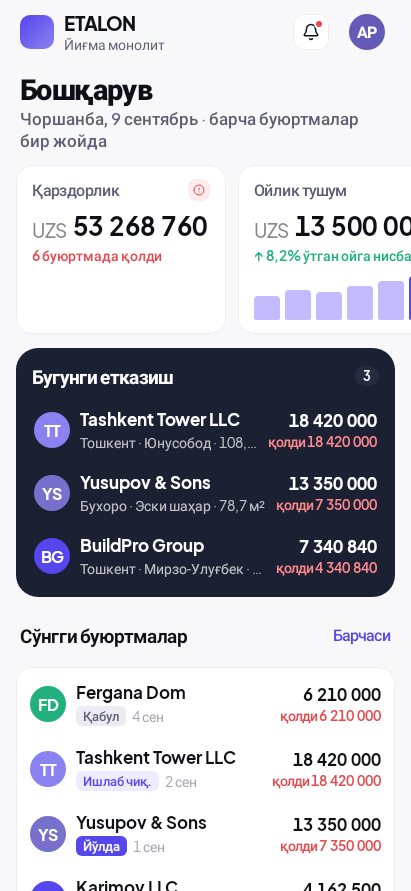
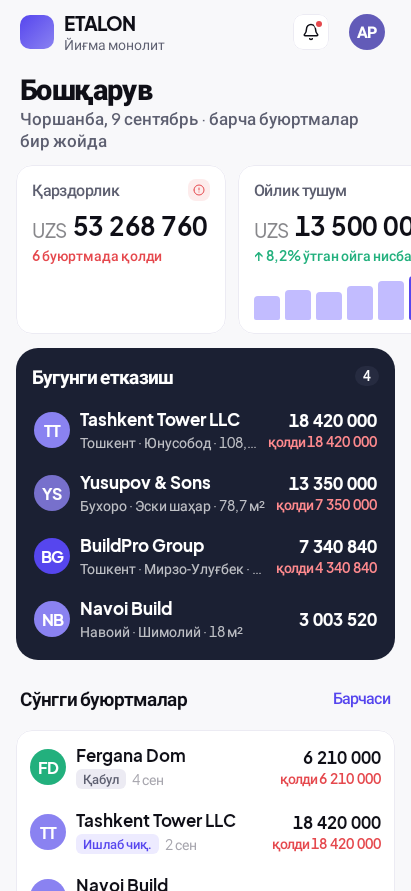
Fix(android) · flat trend, named gaps, canceled rows on Home, re-tap is a no-op
M2 — `Trend.up` was `direction != "down"`, so the server's third direction,
`'flat'`, drew an unchanged month as a green «↑ 0,0 %»: a rise that did not
happen. `Trend.direction` is now a `TrendDirection` with the server's three
values plus UNKNOWN, and Home renders FLAT (and UNKNOWN) as «ўтган ойга
нисбатан ўзгаришсиз» in neutral ink with no arrow and no percentage. The
mapper test covers all three directions and an unrecognised one.

M4 — Home's screenshot fixtures gain a canceled order in *both* row lists,
so the two CANCELED branches written into this screen are finally
photographed rather than merely asserted: the today sheet's row carries no
«қолди», the recent card's carries the red «Бекор қилинган» tag and no
balance. `todayArea` moves to 247,5 м² to stay the sum of the rows.

M7 — the two bare `dp` literals left in HomeScreen are named as the file's
other constants are, with what each measures written down.

M8 — re-tapping the nav cell that is already lit is a no-op. Adding the same
key again replaced the back-stack entry and the `ViewModelStore` with it, so
Orders threw away the query, the chip and the scroll position on a tap that
asked for nothing. A stack route *under* the same tab still returns to the
tab, which is what `backStack.lastOrNull()` (rather than `tabFor`) tests.

Baselines re-recorded: `home_light.png` and `home_font13.png` — both draw
the `loaded()` fixture M4 changed.

Changed region(s): [[0.0292, 0.6364, 0.9635, 1.0], [0.8759, 0.3939, 0.9051, 0.4242]]

diff --git a/android/feature/home/src/main/kotlin/uz/etalon/crm/feature/home/HomeScreen.kt b/android/feature/home/src/main/kotlin/uz/etalon/crm/feature/home/HomeScreen.kt
@@ -56,8 +56,9 @@ import uz.etalon.crm.core.designsystem.theme.EtalonSpace
 import uz.etalon.crm.core.designsystem.theme.EtalonType
 import uz.etalon.crm.core.model.Me
 import uz.etalon.crm.core.model.Money
-import uz.etalon.crm.core.model.OrderStatus
 import uz.etalon.crm.core.model.RecentOrder
+import uz.etalon.crm.core.model.TrendDirection
+import uz.etalon.crm.core.model.owesNothing
 import uz.etalon.crm.core.ui.format.formatAddressLine
 import uz.etalon.crm.core.ui.format.formatArea
 import uz.etalon.crm.core.ui.format.formatLongDate
@@ -78,6 +79,14 @@ private val BRAND_GAP = 10.dp
 
 /** The sparkline draws half a year — six bars is what fits a 210 dp card without crowding. */
 private const val SPARKLINE_MONTHS = 6
+
+/** The count pill hugs its digits: half of `EtalonSpace.xs`, so the pill stays a pill rather than
+ *  growing into a chip. Below the 4-pt grid, hence named here rather than tokenised. */
+private val PILL_PAD_V = 2.dp
+
+/** The recent card insets its rows a touch less than `EtalonSpace.sm`: `OrderRow` carries padding
+ *  of its own, and the full token pushed the avatars off the capture's left edge. */
+private val RECENT_ROW_INSET = 6.dp
 
 /**
  * A top-level nav-pill destination (Destination.HOME), so — like `OrdersListRoute` and
@@ -233,13 +242,21 @@ private fun KpiRow(t: HomeTiles) {
         KpiMoneyCard(
             stringResource(R.string.home_kpi_collected), t.collectedThisMonth,
             accent = KpiAccent.GREEN, icon = EtalonIcons.TrendingUp,
-            footnote = t.collectedTrend?.let {
-                stringResource(
-                    if (it.up) R.string.home_kpi_collected_up else R.string.home_kpi_collected_down,
-                    formatPercent(it.deltaPct, 1),
-                )
+            // FLAT (and a direction this client does not know) makes no claim: no arrow, no
+            // percentage, and `footnotePositive = null` so the line is neutral ink rather than
+            // green. An unchanged month drawn as «↑ 0,0 %» in green is a rise that did not happen.
+            footnote = t.collectedTrend?.let { trend ->
+                when (trend.direction) {
+                    TrendDirection.UP -> stringResource(R.string.home_kpi_collected_up, formatPercent(trend.deltaPct, 1))
+                    TrendDirection.DOWN -> stringResource(R.string.home_kpi_collected_down, formatPercent(trend.deltaPct, 1))
+                    TrendDirection.FLAT, TrendDirection.UNKNOWN -> stringResource(R.string.home_kpi_collected_flat)
+                }
             },
-            footnotePositive = t.collectedTrend?.up,
+            footnotePositive = when (t.collectedTrend?.direction) {
+                TrendDirection.UP -> true
+                TrendDirection.DOWN -> false
+                else -> null
+            },
             bars = bars,
             currentBar = bars.lastIndex,
             modifier = Modifier.fillMaxHeight(),
@@ -288,9 +305,10 @@ private fun TodaySheet(s: HomeUiState, onOpenOrder: (String) -> Unit) = NavyShee
         s.showNoAccessState -> SheetNote(stringResource(R.string.home_today_no_access))
         s.showEmptyState -> SheetNote(stringResource(R.string.home_today_empty))
         else -> s.today.forEach { d ->
-            // A canceled order owes nothing and has paid nothing, so it carries neither «қолди …»
-            // nor «тўланган» — see OrderRow's `paidLabel`.
-            val canceled = d.status == OrderStatus.CANCELED
+            // A canceled order owes nothing, so it carries neither «қолди …» nor «тўланган».
+            // The rule itself lives at `OrderStatus.owesNothing` (core:model), which the order
+            // detail reads too — all three screens must agree about the same order.
+            val canceled = d.status.owesNothing
             OrderRow(
                 clientName = d.clientName,
                 // No tag on these rows: everything on this sheet is scheduled for today, so the
@@ -322,7 +340,7 @@ private fun CountPill(n: Int) = Text(
     style = EtalonType.tag,
     color = EtalonColors.onDark,
     modifier = Modifier.clip(EtalonShapes.pill).background(EtalonColors.navy2)
-        .padding(horizontal = EtalonSpace.sm, vertical = 2.dp),
+        .padding(horizontal = EtalonSpace.sm, vertical = PILL_PAD_V),
 )
 
 @Composable
@@ -357,7 +375,7 @@ private fun RecentSection(
             Modifier.fillMaxWidth().padding(horizontal = EtalonSpace.cardMargin)
                 .clip(EtalonShapes.xl).background(EtalonColors.surface)
                 .border(EtalonSpace.hairline, EtalonColors.surfaceBorder, EtalonShapes.xl)
-                .padding(horizontal = 6.dp, vertical = EtalonSpace.xs),
+                .padding(horizontal = RECENT_ROW_INSET, vertical = EtalonSpace.xs),
         ) {
             if (recent.isEmpty()) {
                 Text(
@@ -368,7 +386,8 @@ private fun RecentSection(
                 )
             } else {
                 recent.take(4).forEach { r ->
-                    val canceled = r.status == OrderStatus.CANCELED
+                    // Same rule as the today sheet above: `OrderStatus.owesNothing` (core:model).
+                    val canceled = r.status.owesNothing
                     OrderRow(
                         clientName = r.clientName,
                         status = r.status,

diff --git a/android/feature/home/src/test/kotlin/uz/etalon/crm/feature/home/HomeScreenshotTest.kt b/android/feature/home/src/test/kotlin/uz/etalon/crm/feature/home/HomeScreenshotTest.kt
@@ -17,6 +17,7 @@ import uz.etalon.crm.core.model.RecentOrder
 import uz.etalon.crm.core.model.Role
 import uz.etalon.crm.core.model.TodayDelivery
 import uz.etalon.crm.core.model.Trend
+import uz.etalon.crm.core.model.TrendDirection
 import java.math.BigDecimal
 import java.time.Instant
 
@@ -61,6 +62,15 @@ class HomeScreenshotTest {
             status = OrderStatus.DISPATCHED,
             totalPrice = Money.parse("7340840.00"), remaining = Money.parse("4340840.00"),
         ),
+        // Canceled, with its whole total still unpaid: the row must draw neither «қолди 18 000 000»
+        // nor «тўланган» (`OrderStatus.owesNothing`). Without one in the fixture that branch was
+        // written but never photographed.
+        TodayDelivery(
+            orderId = "o4", orderNumber = "2026-09-0001", clientName = "Navoi Build",
+            clientAddress = "Навоий, Шимолий", area = BigDecimal("18.00"),
+            status = OrderStatus.CANCELED,
+            totalPrice = Money.parse("3003520.00"), remaining = Money.parse("3003520.00"),
+        ),
     )
 
     private val recent = listOf(
@@ -74,10 +84,13 @@ class HomeScreenshotTest {
             status = OrderStatus.IN_PRODUCTION, scheduledAt = Instant.parse("2026-09-02T06:00:00Z"),
             totalPrice = Money.parse("18420000.00"), remaining = Money.parse("18420000.00"),
         ),
+        // The recent card's own CANCELED branch — the card draws only its first four rows, so the
+        // canceled one has to be inside them to reach the baseline. It takes the slot Yusupov &
+        // Sons held, which the today sheet above still shows.
         RecentOrder(
-            orderId = "o2", orderNumber = "2026-09-0003", clientName = "Yusupov & Sons",
-            status = OrderStatus.DISPATCHED, scheduledAt = Instant.parse("2026-09-01T06:00:00Z"),
-            totalPrice = Money.parse("13350000.00"), remaining = Money.parse("7350000.00"),
+            orderId = "o4", orderNumber = "2026-09-0001", clientName = "Navoi Build",
+            status = OrderStatus.CANCELED, scheduledAt = Instant.parse("2026-09-01T06:00:00Z"),
+            totalPrice = Money.parse("3003520.00"), remaining = Money.parse("3003520.00"),
         ),
         RecentOrder(
             orderId = "o6", orderNumber = "2026-08-0001", clientName = "Karimov LLC",
@@ -94,13 +107,13 @@ class HomeScreenshotTest {
 
     private fun tiles() = HomeTiles(
         todayCount = today.size,
-        todayArea = BigDecimal("229.50"),
+        todayArea = BigDecimal("247.50"), // 108,2 + 78,7 + 42,6 + 18,0 — the sum of `today`
         openDiscrepancies = 1,
         openDiscrepancyTotal = Money.parse("120000.00"),
         receivables = Money.parse("53268760.00"),
         receivableOrders = 6,
         collectedThisMonth = Money.parse("13500000.00"),
-        collectedTrend = Trend(BigDecimal("8.2"), up = true),
+        collectedTrend = Trend(BigDecimal("8.2"), TrendDirection.UP),
         collectedByMonth = collectedByMonth,
     )
 

diff --git a/android/core/data/src/test/kotlin/uz/etalon/crm/core/data/DashboardMappersTest.kt b/android/core/data/src/test/kotlin/uz/etalon/crm/core/data/DashboardMappersTest.kt
@@ -4,6 +4,7 @@ import org.junit.jupiter.api.Assertions.assertEquals
 import org.junit.jupiter.api.Test
 import uz.etalon.crm.core.data.mapper.toDomain
 import uz.etalon.crm.core.model.Money
+import uz.etalon.crm.core.model.TrendDirection
 import uz.etalon.crm.core.network.dto.CollectedThisMonthDto
 import uz.etalon.crm.core.network.dto.DashboardDto
 import uz.etalon.crm.core.network.dto.OpenDiscrepanciesDto
@@ -63,13 +64,34 @@ class DashboardMappersTest {
         assertEquals(emptyList<Any>(), withMissingSchedule.toDomain().recent)
     }
 
-    @Test fun `collected trend direction down is not up, flat still renders up with its own deltaPct`() {
-        val down = dto.copy(collectedThisMonth = CollectedThisMonthDto(total = BigDecimal("100"), trend = TrendDto(BigDecimal("5.0"), "down")))
-        assertEquals(false, down.toDomain().collectedTrend!!.up)
+    /**
+     * Defect M2. The server's `direction` has three values (`src/lib/dashboard-metrics.ts`), and
+     * folding FLAT into "up" drew an unchanged month as a green «↑ 0,0 %» — a rise that did not
+     * happen. Each of the three maps to its own [TrendDirection], and `deltaPct` is carried through
+     * untouched in every case.
+     */
+    @Test fun `each of the server's three trend directions maps to its own`() {
+        fun trend(delta: String, direction: String) =
+            dto.copy(collectedThisMonth = CollectedThisMonthDto(total = BigDecimal("100"), trend = TrendDto(BigDecimal(delta), direction)))
+                .toDomain().collectedTrend!!
 
-        val flat = dto.copy(collectedThisMonth = CollectedThisMonthDto(total = BigDecimal("100"), trend = TrendDto(BigDecimal("0"), "flat")))
-        val flatTrend = flat.toDomain().collectedTrend!!
-        assertEquals(true, flatTrend.up)
-        assertEquals(BigDecimal("0"), flatTrend.deltaPct)
+        val up = trend("8.2", "up")
+        assertEquals(TrendDirection.UP, up.direction)
+        assertEquals(BigDecimal("8.2"), up.deltaPct)
+
+        val down = trend("5.0", "down")
+        assertEquals(TrendDirection.DOWN, down.direction)
+        assertEquals(BigDecimal("5.0"), down.deltaPct)
+
+        val flat = trend("0", "flat")
+        assertEquals(TrendDirection.FLAT, flat.direction)
+        assertEquals(BigDecimal("0"), flat.deltaPct)
+    }
+
+    /** A direction added on the server that this build has never heard of makes no claim at all —
+     *  it reads as FLAT does rather than being guessed into a rise or a fall. */
+    @Test fun `an unrecognised direction is UNKNOWN, not up`() {
+        val odd = dto.copy(collectedThisMonth = CollectedThisMonthDto(total = BigDecimal("100"), trend = TrendDto(BigDecimal("3.0"), "sideways")))
+        assertEquals(TrendDirection.UNKNOWN, odd.toDomain().collectedTrend!!.direction)
     }
 }

diff --git a/android/app/src/test/kotlin/uz/etalon/crm/nav/SwitchTabTest.kt b/android/app/src/test/kotlin/uz/etalon/crm/nav/SwitchTabTest.kt
@@ -1,0 +1,47 @@
+package uz.etalon.crm.nav
+
+import androidx.navigation3.runtime.NavBackStack
+import androidx.navigation3.runtime.NavKey
+import org.junit.jupiter.api.Assertions.assertEquals
+import org.junit.jupiter.api.Test
+
+/**
+ * Defect M8. Tapping a nav cell trims the stack down to that tab — but re-tapping the cell the
+ * operator is *already on* used to re-add the key, replacing the back-stack entry and with it the
+ * `ViewModelStore` the entry decorator holds. On Orders that threw away the query, the chip and the
+ * scroll position on a tap that asked for nothing.
+ */
+class SwitchTabTest {
+    private fun stack(vararg keys: NavKey) = NavBackStack<NavKey>(*keys)
+
+    @Test
+    fun `re-tapping the active cell changes nothing`() {
+        val bs = stack(Orders)
+        switchTab(bs, Orders)
+        assertEquals(listOf<NavKey>(Orders), bs.toList())
+    }
+
+    @Test
+    fun `tapping another cell replaces the stack with that tab`() {
+        val bs = stack(Orders)
+        switchTab(bs, Home)
+        assertEquals(listOf<NavKey>(Home), bs.toList())
+    }
+
+    /** A stack route under the same tab is a different screen: «Буюртма» is lit on an order
+     *  detail, and tapping it must still take the operator back to the list. */
+    @Test
+    fun `tapping the lit cell from a stack route under it returns to the tab`() {
+        val bs = stack(Orders, OrderDetail("o1"))
+        switchTab(bs, Orders)
+        assertEquals(listOf<NavKey>(Orders), bs.toList())
+    }
+
+    /** Whatever was underneath goes: a tab tap is a reset, never a push onto a growing stack. */
+    @Test
+    fun `switching always leaves exactly one entry`() {
+        val bs = stack(Home, OrderDetail("o1"), RecordPayment("o1"))
+        switchTab(bs, Clients)
+        assertEquals(listOf<NavKey>(Clients), bs.toList())
+    }
+}

diff --git a/android/feature/home/src/test/kotlin/uz/etalon/crm/feature/home/HomeViewModelTest.kt b/android/feature/home/src/test/kotlin/uz/etalon/crm/feature/home/HomeViewModelTest.kt
@@ -24,6 +24,7 @@ import uz.etalon.crm.core.model.OrderStatus
 import uz.etalon.crm.core.model.RecentOrder
 import uz.etalon.crm.core.model.TodayDelivery
 import uz.etalon.crm.core.model.Trend
+import uz.etalon.crm.core.model.TrendDirection
 import uz.etalon.crm.core.network.ApiException
 import java.io.IOException
 import java.math.BigDecimal
@@ -181,7 +182,7 @@ class HomeViewModelTest {
         val s = summary(
             recent = listOf(recentOrder("r1"), recentOrder("r2")),
             collectedThisMonth = Money.parse("13500000"),
-            collectedTrend = Trend(BigDecimal("8.2"), up = true),
+            collectedTrend = Trend(BigDecimal("8.2"), TrendDirection.UP),
             collectedByMonth = (1..12).map { MonthCollected("2026-%02d".format(it), Money.parse("${it}000000")) },
         )
         val vm = viewModel(home = { Result.success(s) })
@@ -193,7 +194,7 @@ class HomeViewModelTest {
         assertEquals(Money.parse("12000000"), tiles.collectedByMonth.last())
         assertEquals(Money.parse("13500000"), tiles.collectedThisMonth)
         assertEquals(BigDecimal("8.2"), tiles.collectedTrend?.deltaPct)
-        assertTrue(tiles.collectedTrend?.up == true)
+        assertEquals(TrendDirection.UP, tiles.collectedTrend?.direction)
     }
 
     /** «Ҳали буюртма йўқ» is a claim about the server, not about the screen: it may only be made

diff --git a/android/app/src/main/kotlin/uz/etalon/crm/nav/EtalonNavHost.kt b/android/app/src/main/kotlin/uz/etalon/crm/nav/EtalonNavHost.kt
@@ -60,9 +60,19 @@ private fun Destination.icon(): Int = when (this) {
     Destination.CLIENTS -> EtalonIcons.Users
 }
 
-/** Add first, then trim: clear-then-add would leave the stack momentarily empty, which
- *  NavDisplay cannot render. */
-private fun switchTab(backStack: NavBackStack<NavKey>, target: NavKey) {
+/**
+ * Add first, then trim: clear-then-add would leave the stack momentarily empty, which
+ * NavDisplay cannot render.
+ *
+ * Re-tapping the cell that is already lit is a no-op. Adding the same key again replaces the
+ * entry — and with it the `ViewModelStore` the entry decorator holds — so Orders would lose the
+ * query, the chip and the scroll position the operator had just set, on a tap that asked for
+ * nothing. This is a whole-screen test: `backStack.lastOrNull()`, not `tabFor`, because a stack
+ * route *under* the same tab (an order detail with «Буюртма» lit) is a different screen and
+ * tapping the cell must still take the operator back to the list.
+ */
+internal fun switchTab(backStack: NavBackStack<NavKey>, target: NavKey) {
+    if (backStack.lastOrNull() == target) return
     backStack.add(target)
     while (backStack.size > 1) backStack.removeAt(0)
 }

diff --git a/android/core/model/src/main/kotlin/uz/etalon/crm/core/model/Dashboard.kt b/android/core/model/src/main/kotlin/uz/etalon/crm/core/model/Dashboard.kt
@@ -30,8 +30,24 @@ data class RecentOrder(
 
 data class MonthCollected(val month: String, val collected: Money)
 
-/** `up` is true unless the server's `direction` is `'down'` — `'flat'` renders as up-with-0. */
-data class Trend(val deltaPct: BigDecimal, val up: Boolean)
+/**
+ * The server's three directions (`src/lib/dashboard-metrics.ts`: `'up' | 'down' | 'flat'`), kept
+ * three-valued here. Folding FLAT into "up" drew an unchanged month as a green «↑ 0,0 %» — a rise
+ * that did not happen — so a month that stood still says so, in neutral ink and with no arrow.
+ * [UNKNOWN] is a direction this client does not recognise; it reads as FLAT does, making no claim.
+ */
+enum class TrendDirection { UP, DOWN, FLAT, UNKNOWN;
+    companion object {
+        fun from(s: String) = when (s) {
+            "up" -> UP
+            "down" -> DOWN
+            "flat" -> FLAT
+            else -> UNKNOWN
+        }
+    }
+}
+
+data class Trend(val deltaPct: BigDecimal, val direction: TrendDirection)
 
 /**
  * The subset of `GET /api/dashboard`'s `DashboardPayload` this slice renders: the «Бугун»

diff --git a/android/core/data/src/main/kotlin/uz/etalon/crm/core/data/mapper/DashboardMappers.kt b/android/core/data/src/main/kotlin/uz/etalon/crm/core/data/mapper/DashboardMappers.kt
@@ -7,6 +7,7 @@ import uz.etalon.crm.core.model.OrderStatus
 import uz.etalon.crm.core.model.RecentOrder
 import uz.etalon.crm.core.model.TodayDelivery
 import uz.etalon.crm.core.model.Trend
+import uz.etalon.crm.core.model.TrendDirection
 import uz.etalon.crm.core.network.dto.DashboardDto
 import uz.etalon.crm.core.network.dto.RecentOrderDto
 import uz.etalon.crm.core.network.dto.TodayDeliveryOrderDto
@@ -46,6 +47,6 @@ fun DashboardDto.toDomain() = HomeSummary(
     awaitingOrders = ordersByPaymentState.awaiting,
     recent = recentOrders.mapNotNull { it.toDomain() },
     collectedThisMonth = Money(collectedThisMonth?.total ?: BigDecimal.ZERO),
-    collectedTrend = collectedThisMonth?.trend?.let { Trend(it.deltaPct, it.direction != "down") },
+    collectedTrend = collectedThisMonth?.trend?.let { Trend(it.deltaPct, TrendDirection.from(it.direction)) },
     collectedByMonth = collectedByMonth.map { MonthCollected(it.month, Money(it.collected)) },
 )
